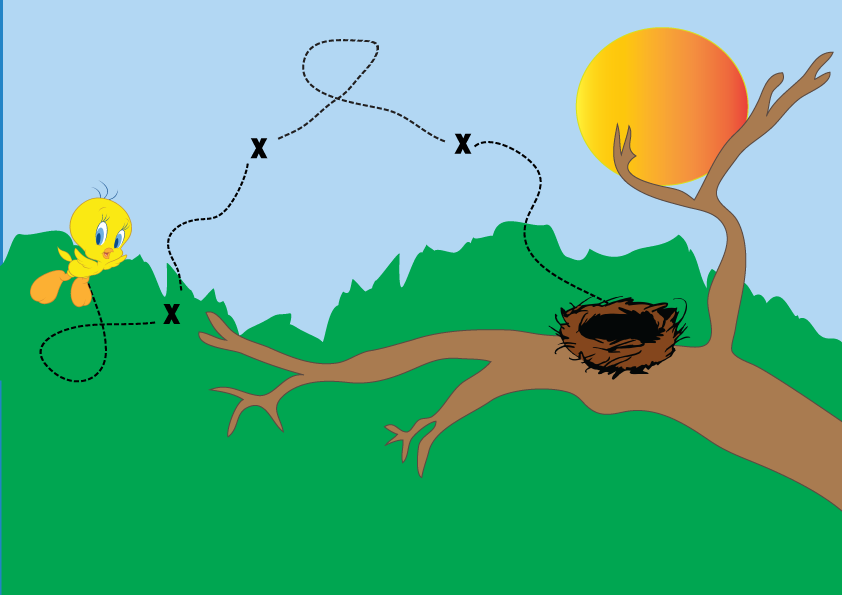
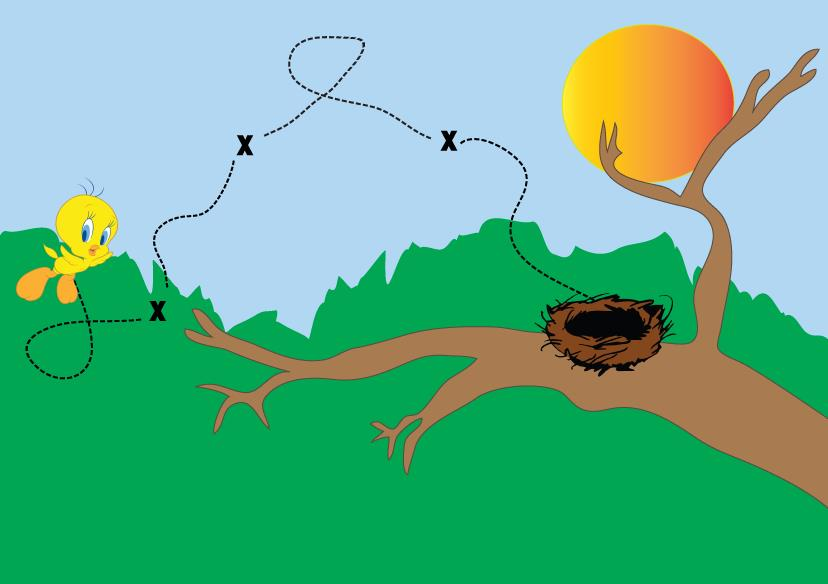
score page css some elements added

diff --git a/public/css/score.css b/public/css/score.css
@@ -1,3 +1,12 @@
+body {
+	background-image: url('../img/route0.png');
+	background-repeat: no-repeat;
+	-webkit-background-size: cover;
+	-moz-background-size: cover;
+	-o-background-size: cover;
+	background-size: cover;
+}
+
 h1, p {
 	text-align: center;
 }
@@ -14,4 +23,15 @@ p {
 	font-size: 20px;
 	margin-top: 40px;
 	font-weight: normal;
+}
+
+h1 {
+float: center;
+margin-top: 300px;
+}
+
+p {
+float: center;
+margin-top: 0px;
+margin-right: 90px;
 }
